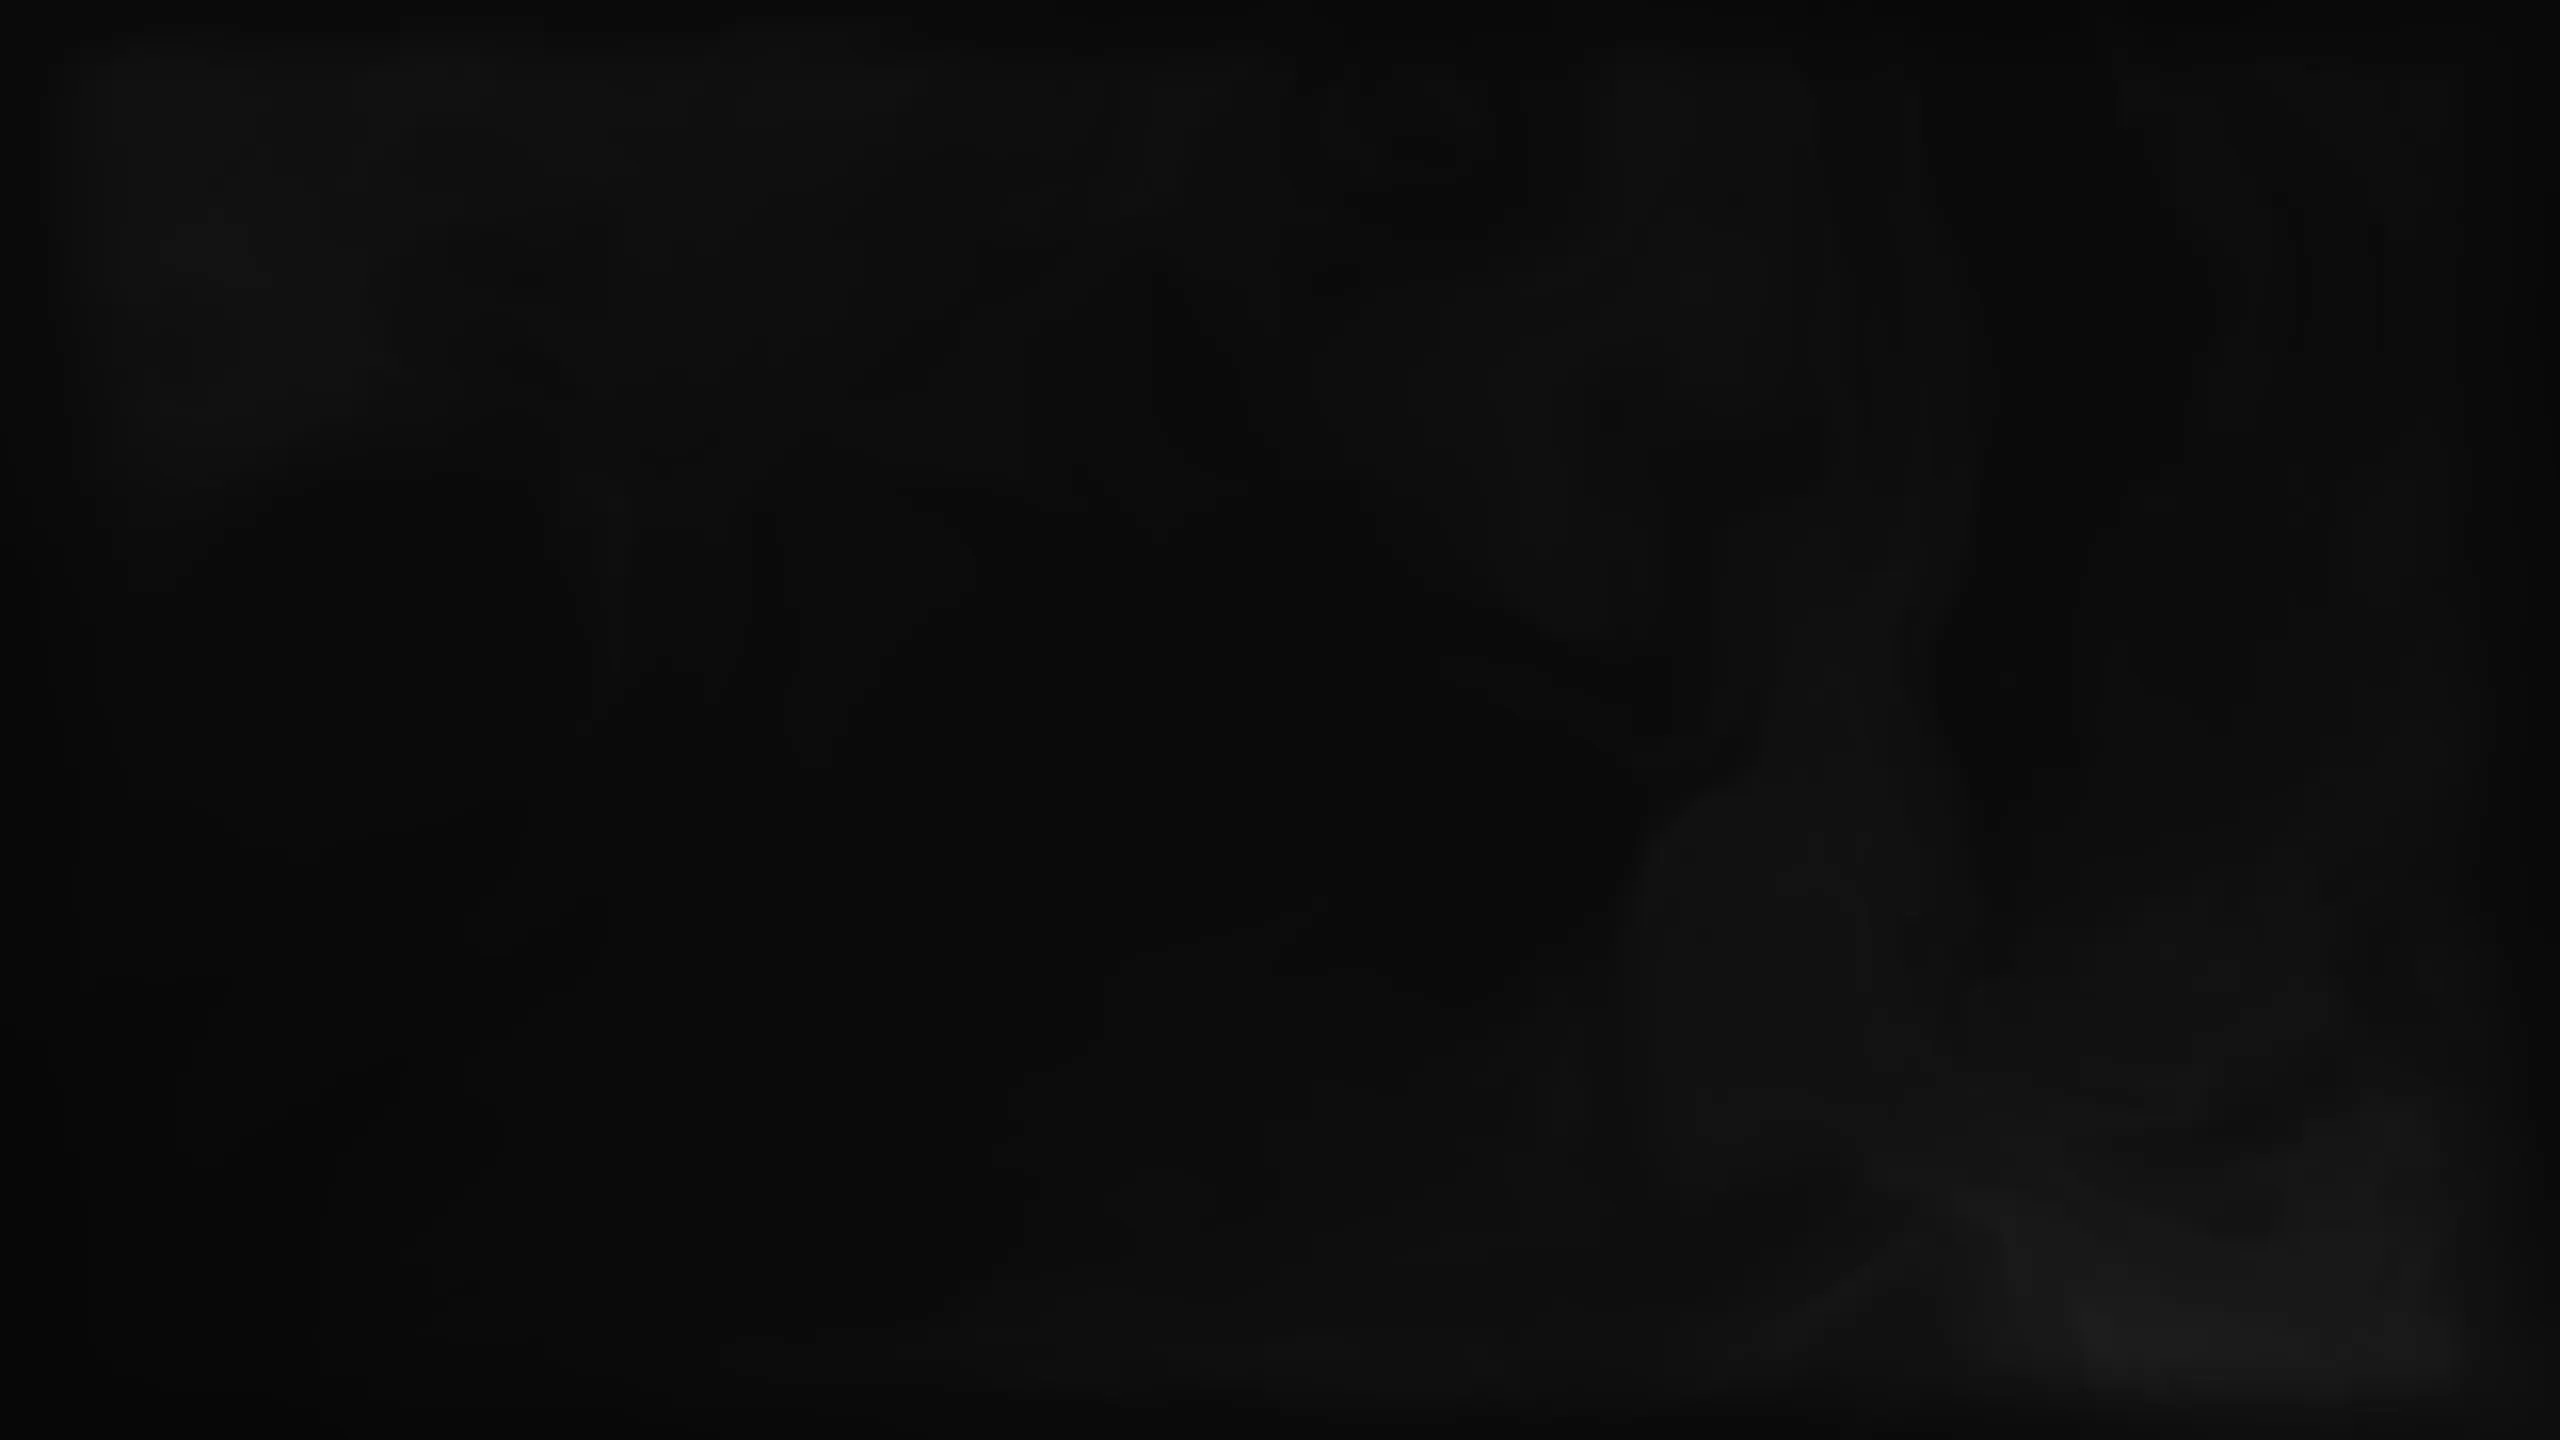
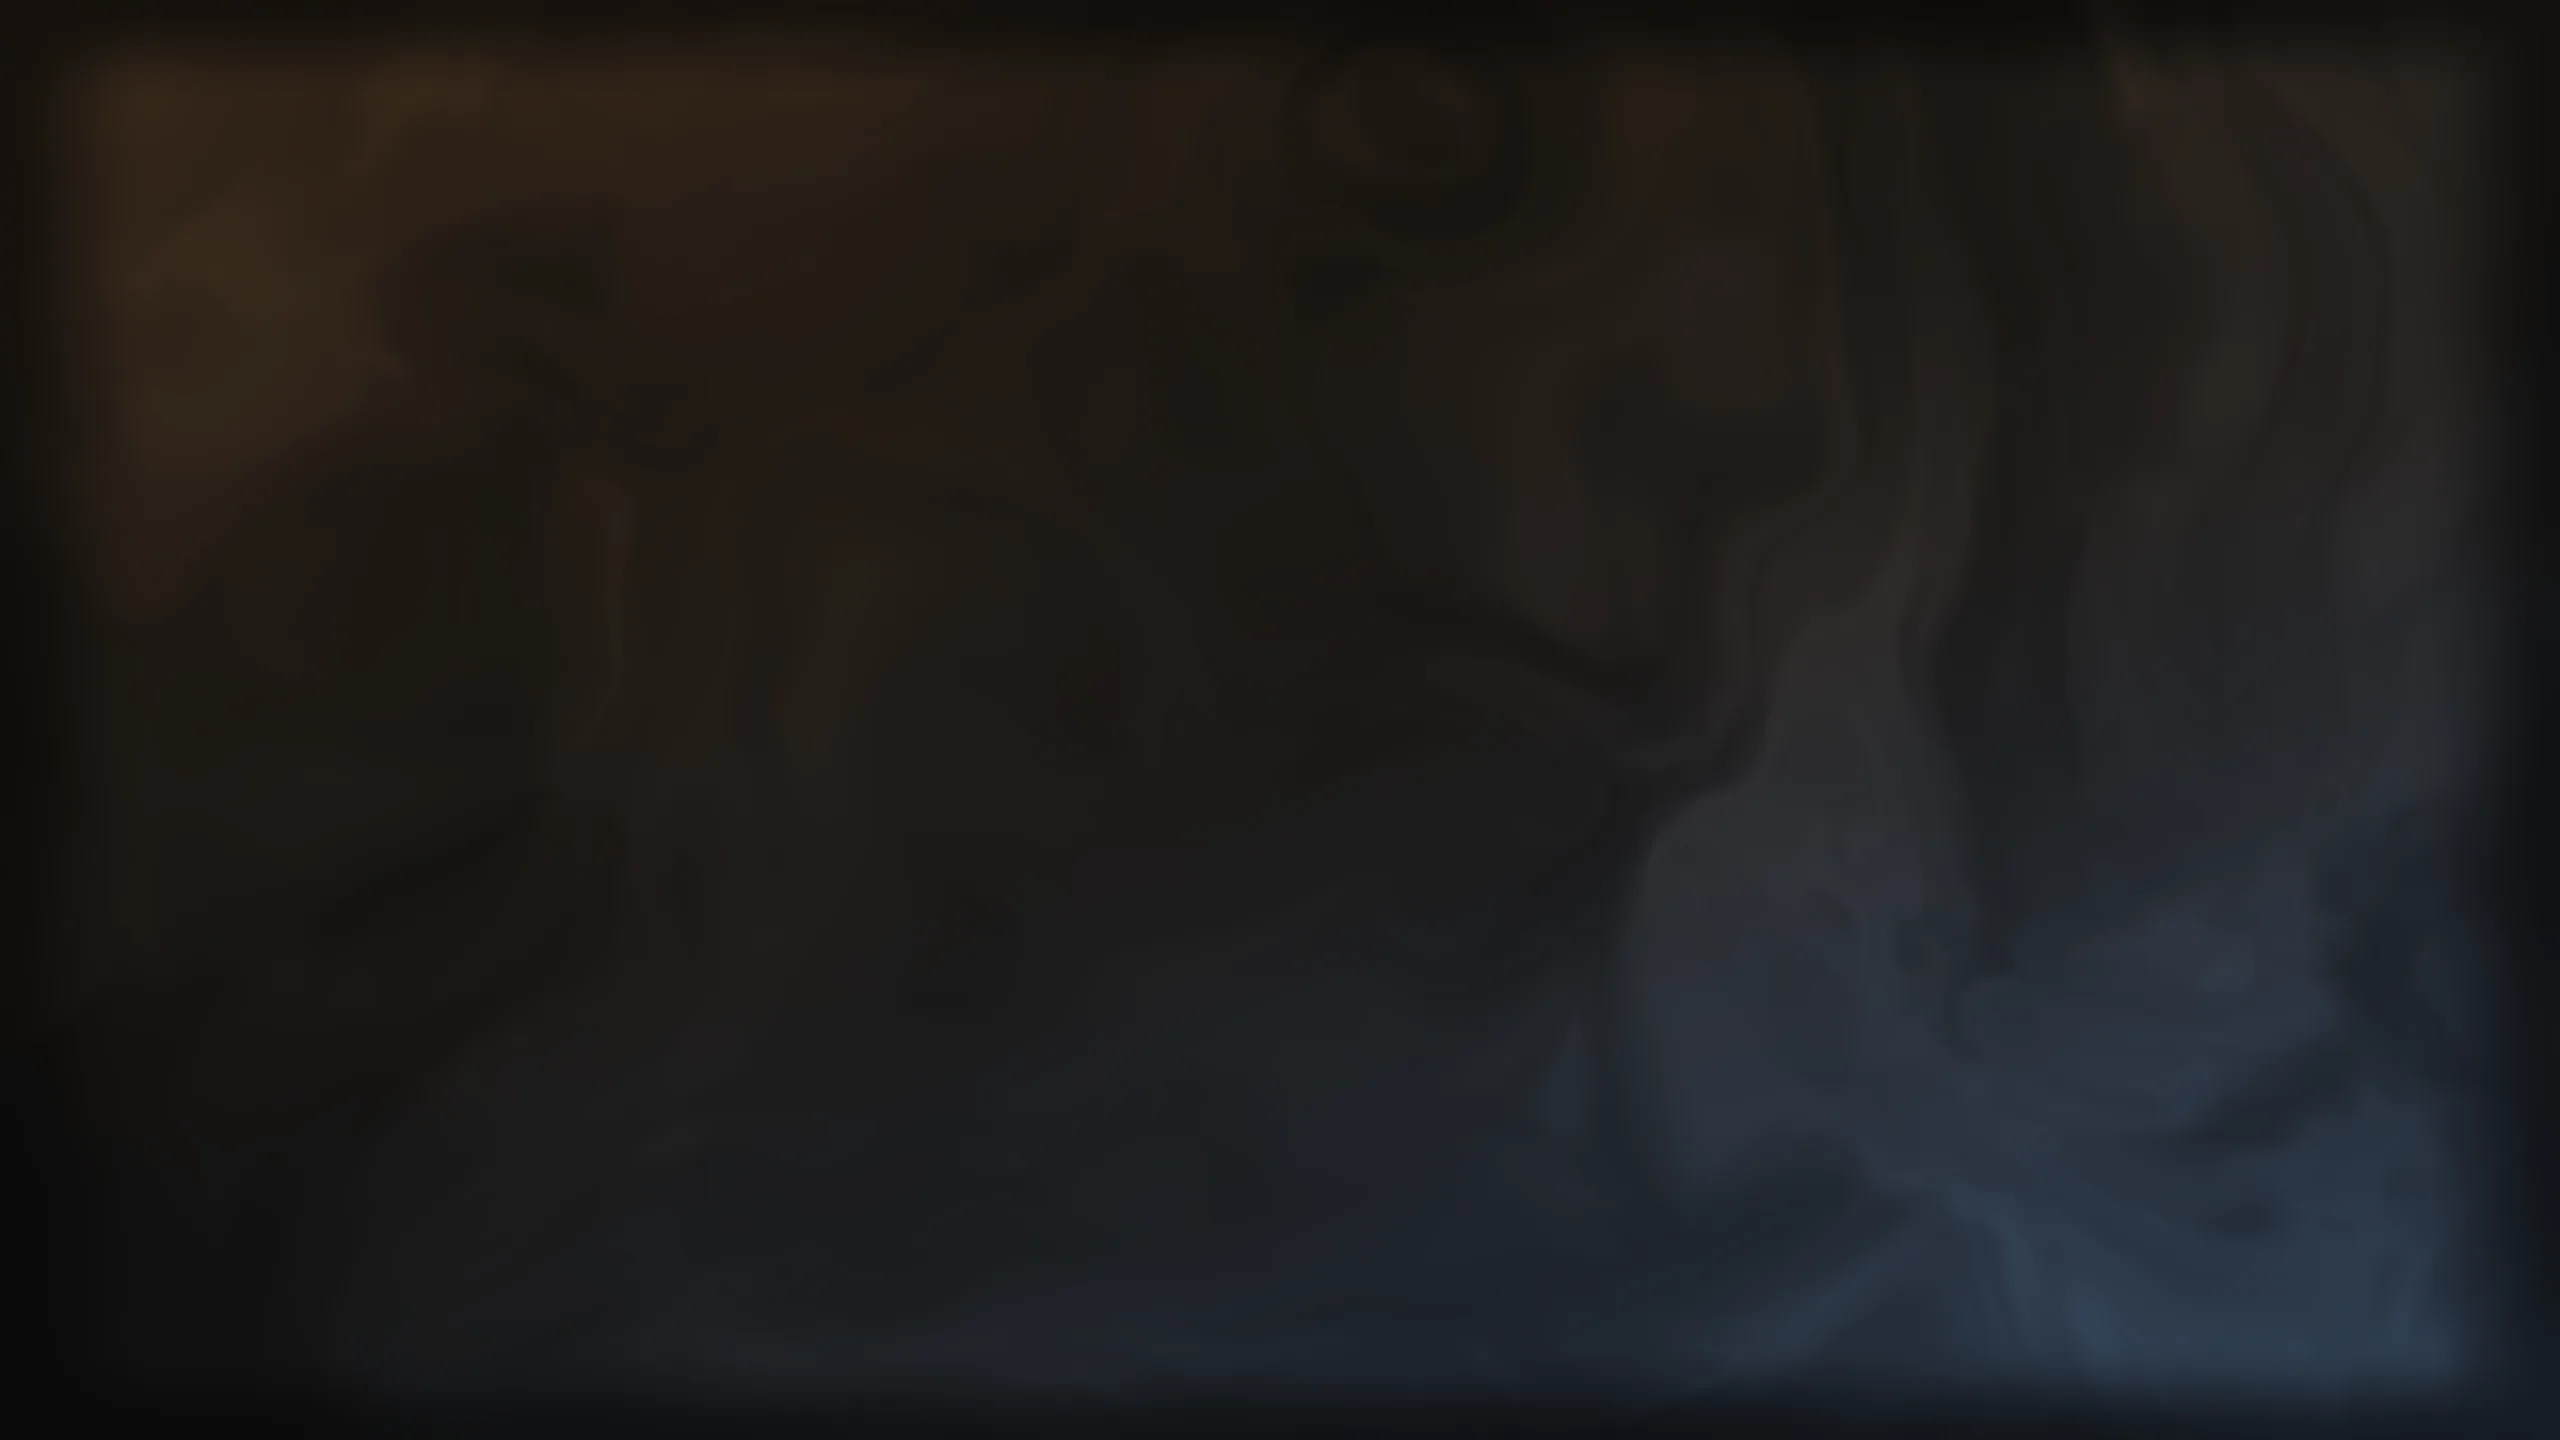
feat(ground): tone the baked field like a print, add grit and striation
The field was zero-chroma and read as grey-on-grey. It is now split-toned:
the key light carries the corpus hue (every set's spill averaged in linear
light), the fill carries its reciprocal, and the base black stays a true
neutral — so there is colour in the room but it lives only in the light.

Chroma amount is fixed and the hue is what varies, so a strongly-coloured
set never shouts louder than a quiet one.

Texture: fine grit riding on the veils, a raking striation across the light,
wider veil coverage (0.30 vs 0.44) so the field has structure everywhere
instead of a few rare crests. Lights flattened (0.92/0.82 peak, 0.36 ambient)
to keep the hot corners off the quiet type.

No grain baked in — AVIF spends its whole budget on it and destroys it
anyway, blotching the veils. It is laid on in CSS instead.

Portrait crop added: cover on a phone threw away most of a 16:9 field, and
the still is the only ground there is on mobile.

diff --git a/pipeline/encode-ground.ts b/pipeline/encode-ground.ts
@@ -1,7 +1,12 @@
 /**
  * Encode the baked ground (pipeline/render_ground.py) for shipping.
- * Synthetic zero-chroma image — no ICC concerns, plain sRGB. High quality:
- * smooth near-black gradients band at low q, and the file stays tiny anyway.
+ * Two crops: landscape for desktop, portrait for phones — where the still is
+ * the only ground there is. Synthetic sRGB, so no ICC to carry; the toning is
+ * generated in-gamut, never converted from anything.
+ *
+ * 4:4:4 — the chroma *is* the content here, and subsampled chroma blocks show
+ * badly on a near-black field. Quality is high because smooth near-black
+ * gradients band at low q; the files stay small regardless.
  *
  * Run: bun run pipeline/encode-ground.ts
  */
@@ -10,13 +15,15 @@ import { join, dirname } from "node:path";
 import { stat } from "node:fs/promises";
 
 const ROOT = dirname(import.meta.dir);
-const SRC = join(ROOT, "pipeline/.cache/ground.png");
 
-for (const [file, run] of [
-  ["ground.avif", (s: sharp.Sharp) => s.avif({ quality: 62, effort: 6, chromaSubsampling: "4:2:0" })],
-  ["ground.webp", (s: sharp.Sharp) => s.webp({ quality: 78 })],
-] as const) {
-  const out = join(ROOT, "public/img", file);
-  await run(sharp(SRC)).toFile(out);
-  console.log(file, `${((await stat(out)).size / 1024).toFixed(0)}KB`);
+for (const name of ["ground", "ground-portrait"]) {
+  const src = join(ROOT, `pipeline/.cache/${name}.png`);
+  for (const [ext, run] of [
+    ["avif", (s: sharp.Sharp) => s.avif({ quality: 70, effort: 6, chromaSubsampling: "4:4:4" })],
+    ["webp", (s: sharp.Sharp) => s.webp({ quality: 82 })],
+  ] as const) {
+    const out = join(ROOT, "public/img", `${name}.${ext}`);
+    await run(sharp(src)).toFile(out);
+    console.log(`${name}.${ext}`, `${((await stat(out)).size / 1024).toFixed(0)}KB`);
+  }
 }

diff --git a/pipeline/render_ground.py b/pipeline/render_ground.py
@@ -2,11 +2,20 @@
 """
 The ground — a designed darkness, not a flat colour.
 
-One baked luminance field: domain-warped fBm (the same maths as the fbm
-shader, run offline) shaped into slow smoke-veils, lit as if the darkroom
-had light arriving from two directions — high left, low right. Strictly
-zero-chroma: R=G=B everywhere, so colour on the site still only ever
-comes from the work via the spill layer.
+One baked field: domain-warped fBm (the same maths as the fbm shader, run
+offline) shaped into slow smoke-veils, lit as if the darkroom had light
+arriving from two directions — high left, low right.
+
+The room is toned, the way a print is toned: the key light carries the
+colour of the work, the fill carries its complement. The base black stays a
+true neutral, so the darks are still darks and the chroma only ever lives in
+the light. The tone here is the *corpus* tone — the average of every set's
+spill — because a baked still cannot know which set you are looking at; the
+live field (components/ground.tsx) re-tones per set on top of it.
+
+Texture is baked in too: a fine grit riding on the veils, a raking striation
+across the light, and silver grain — so the field reads as air with
+something in it rather than a smooth gradient.
 
 Output: pipeline/.cache/ground.png (2560x1440), encoded to
 public/img/ground.avif + .webp by `bun run pipeline/encode-ground.ts`.
@@ -41,39 +50,97 @@ def sm(e0, e1, x):
     t = np.clip((x - e0) / (e1 - e0), 0, 1)
     return t * t * (3 - 2 * t)
 
-W, H = 2560, 1440
-ys, xs = np.mgrid[0:H, 0:W].astype(np.float64)
-px = (xs - W / 2) / min(W, H) * 0.62   # large scale — veils, not noise
-py = -(ys - H / 2) / min(W, H) * 0.62
-u = xs / W; v = ys / H                  # 0..1 screen coords
 
-# double warp, frozen at a chosen moment
-qx = fbm(px + 2.0, py + 2.0)
-qy = fbm(px + 5.2 - 1.4, py + 1.3 - 1.4)
-rx = fbm(px + 3.6 * qx + 1.7 + 0.8, py + 3.6 * qy + 9.2 + 0.8)
-ry = fbm(px + 3.6 * qx + 8.3 - 0.6, py + 3.6 * qy + 2.8 - 0.6)
-f = fbm(px + 3.2 * rx, py + 3.2 * ry)
+# ── the toning ──────────────────────────────────────────────────────────
+# Every set's spill, averaged in linear light: the colour of the body of
+# work as a whole. Keep in sync with corpusSpill() in lib/work.ts.
+CORPUS_SPILL = "#5b544d"
+KEY_CHROMA = 0.60   # how far the key light departs from neutral
+FILL_CHROMA = 0.48  # the complement, in the fill
 
-veil = sm(0.44, 1.02, qx * 0.7 + ry * 0.55)          # broad drifting smoke
-crest = np.power(np.clip(f, 0, 1), 3.4)              # rare bright crests
+def _srgb_to_linear(c):
+    return np.where(c <= 0.04045, c / 12.92, ((c + 0.055) / 1.055) ** 2.4)
 
-# the room's two light directions — high left, low right
-light = 1.15 * np.exp(-(((u - 0.14) ** 2) / 0.34 + ((v + 0.04) ** 2) / 0.30)) \
-      + 0.85 * np.exp(-(((u - 0.92) ** 2) / 0.24 + ((v - 1.06) ** 2) / 0.22)) \
-      + 0.16
+def tone(hex_spill, key_chroma=KEY_CHROMA, fill_chroma=FILL_CHROMA):
+    """Split-tone a spill hex into (key, fill) multipliers around neutral 1.
 
-BASE = 0.0275                                        # the ground colour, #07
-# the veils carry the light; a faint direct glow keeps the room shaped even
-# where the smoke is thin
-lum = BASE + (veil * 0.085 + crest * 0.105) * light + light * 0.016
+    The hue is the set's; the *amount* is fixed, so a strongly-coloured set
+    never shouts louder than a quiet one — only its hue differs. The fill is
+    the reciprocal direction, which is what makes a toned print read as
+    toned: warm light, cool shadow (or the reverse), never one flat wash.
+    """
+    n = int(hex_spill.lstrip("#"), 16)
+    rgb = _srgb_to_linear(np.array([(n >> 16) & 255, (n >> 8) & 255, n & 255]) / 255.0)
+    d = rgb / rgb.mean()
+    def norm(v, target):
+        c = np.abs(v - 1).max()
+        return 1 + (v - 1) * (target / c if c > 1e-4 else 0)
+    inv = 1 / d
+    return norm(d, key_chroma), norm(inv / inv.mean(), fill_chroma)
 
-# edges settle back toward the ground so the fixed layer never shows a seam
-edge = sm(0.0, 0.06, u) * sm(1.0, 0.94, u) * sm(0.0, 0.07, v) * sm(1.0, 0.93, v)
-lum = BASE + (lum - BASE) * (0.35 + 0.65 * edge)
+KEY_COL, FILL_COL = tone(CORPUS_SPILL)
 
-img = (np.clip(lum, 0, 1) * 255)
-out = np.repeat(img[..., None], 3, axis=2).astype(np.uint8)
-dest = Path(__file__).parent / ".cache" / "ground.png"
-dest.parent.mkdir(exist_ok=True)
-Image.fromarray(out).save(dest)
-print(f"{dest} — min {img.min():.1f} max {img.max():.1f} mean {img.mean():.1f} (8-bit)")
+
+BASE = 0.0275   # the ground colour, #07 — a true neutral, always
+
+def render(W, H):
+    ys, xs = np.mgrid[0:H, 0:W].astype(np.float64)
+    px = (xs - W / 2) / min(W, H) * 0.62   # large scale — veils, not noise
+    py = -(ys - H / 2) / min(W, H) * 0.62
+    u = xs / W; v = ys / H                  # 0..1 screen coords
+
+    # double warp, frozen at a chosen moment
+    qx = fbm(px + 2.0, py + 2.0)
+    qy = fbm(px + 5.2 - 1.4, py + 1.3 - 1.4)
+    rx = fbm(px + 3.6 * qx + 1.7 + 0.8, py + 3.6 * qy + 9.2 + 0.8)
+    ry = fbm(px + 3.6 * qx + 8.3 - 0.6, py + 3.6 * qy + 2.8 - 0.6)
+    f = fbm(px + 3.2 * rx, py + 3.2 * ry)
+
+    veil = sm(0.30, 0.95, qx * 0.7 + ry * 0.55)          # broad drifting smoke
+    crest = np.power(np.clip(f, 0, 1), 2.8)              # rare bright crests
+
+    # fine grit inside the smoke — structure at the scale you actually see
+    grit = fbm(px * 5.4 + rx * 1.3, py * 5.4 + ry * 1.3, octaves=3) - 0.48
+
+    # raking striation — light arriving through something, not through nothing
+    streak = fbm(px * 1.1 + 11.0, py * 7.4 - 3.0, octaves=2)
+    rake = 1 + (streak - 0.41) * 0.46
+
+    # the room's two light directions — high left, low right
+    lightK = 0.92 * np.exp(-(((u - 0.14) ** 2) / 0.46 + ((v + 0.04) ** 2) / 0.40)) * rake
+    lightF = 0.82 * np.exp(-(((u - 0.92) ** 2) / 0.40 + ((v - 1.06) ** 2) / 0.34)) * rake
+    AMB = 0.36
+
+    # the veils carry the light; a faint direct glow keeps the room shaped even
+    # where the smoke is thin
+    density = (veil * 0.150 + crest * 0.185) * (1 + grit * 0.85 * (0.35 + 0.65 * veil))
+    density = np.clip(density, 0, None)
+
+    lit = (KEY_COL[:, None, None] * lightK
+           + FILL_COL[:, None, None] * lightF
+           + AMB)
+    rgb = BASE + lit * (density + 0.028)
+
+    # edges settle back toward the ground so the fixed layer never shows a seam
+    edge = sm(0.0, 0.06, u) * sm(1.0, 0.94, u) * sm(0.0, 0.07, v) * sm(1.0, 0.93, v)
+    rgb = BASE + (rgb - BASE) * (0.35 + 0.65 * edge)
+
+    # No grain baked in: AVIF/WebP spend their whole budget on it and then
+    # destroy it anyway, blotching the veils in the process. The silver is
+    # laid on in the browser instead (.ground-grain), where it costs nothing
+    # and stays sharp at any DPR.
+    return np.clip(rgb, 0, 1) * 255
+
+
+# Two crops. `cover` on a phone would throw away most of a 16:9 field, and the
+# still is the *only* ground there (no WebGL, no motion) — so the portrait
+# room is composed for portrait, not cropped out of the landscape one.
+dest = Path(__file__).parent / ".cache"
+dest.mkdir(exist_ok=True)
+print(f"  key {np.round(KEY_COL, 3)}   fill {np.round(FILL_COL, 3)}")
+for name, (W, H) in {"ground": (2560, 1440), "ground-portrait": (1200, 2000)}.items():
+    img = render(W, H)
+    Image.fromarray(np.moveaxis(img, 0, -1).astype(np.uint8)).save(dest / f"{name}.png")
+    spread = img.max(axis=0) - img.min(axis=0)
+    stats = "  ".join(f"{c} {img[i].min():.0f}–{img[i].max():.0f}/{img[i].mean():.1f}" for i, c in enumerate("RGB"))
+    print(f"{name}.png {W}x{H}  {stats}  chroma p99 {np.percentile(spread, 99):.0f}")
